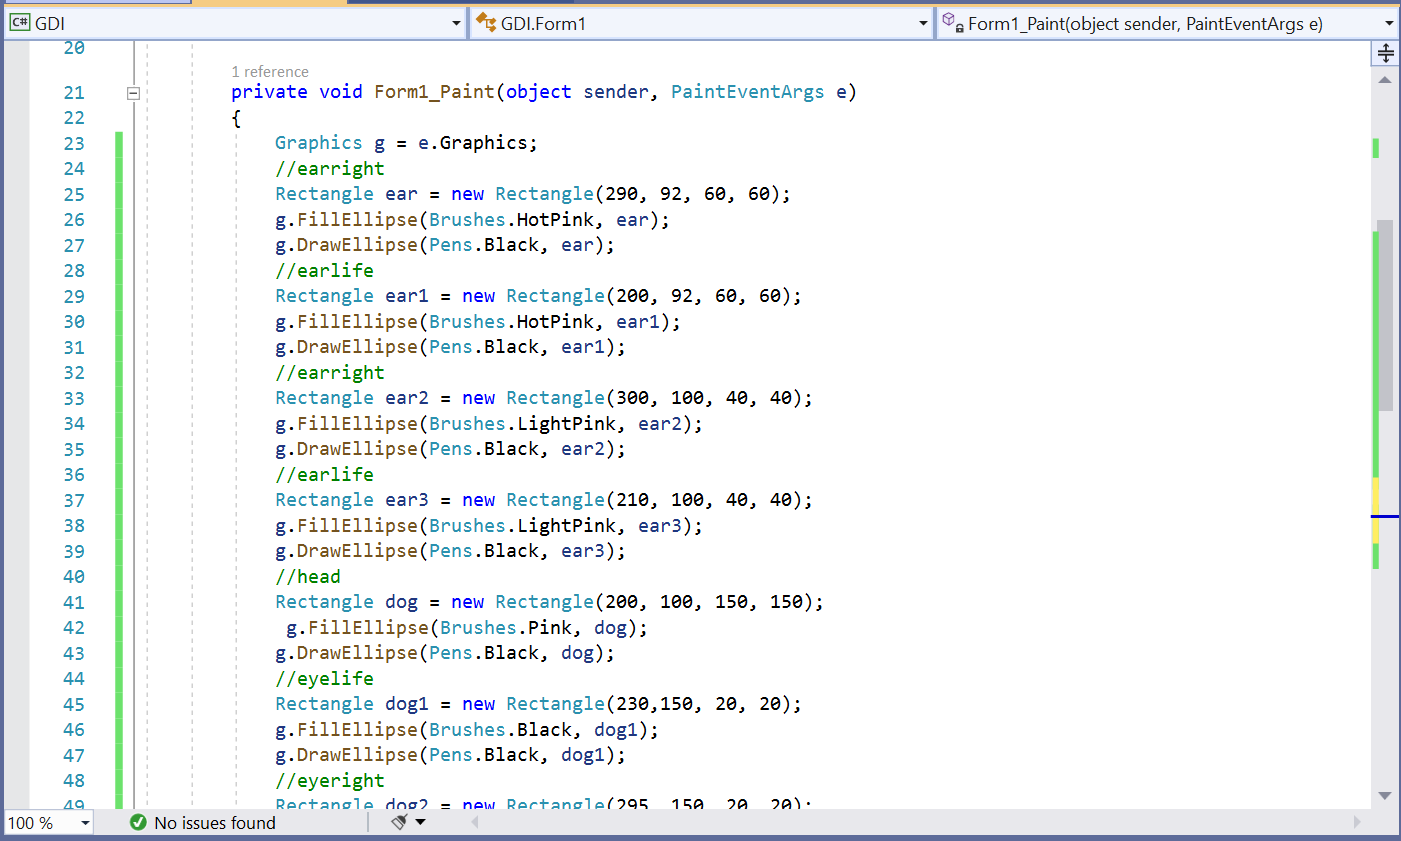
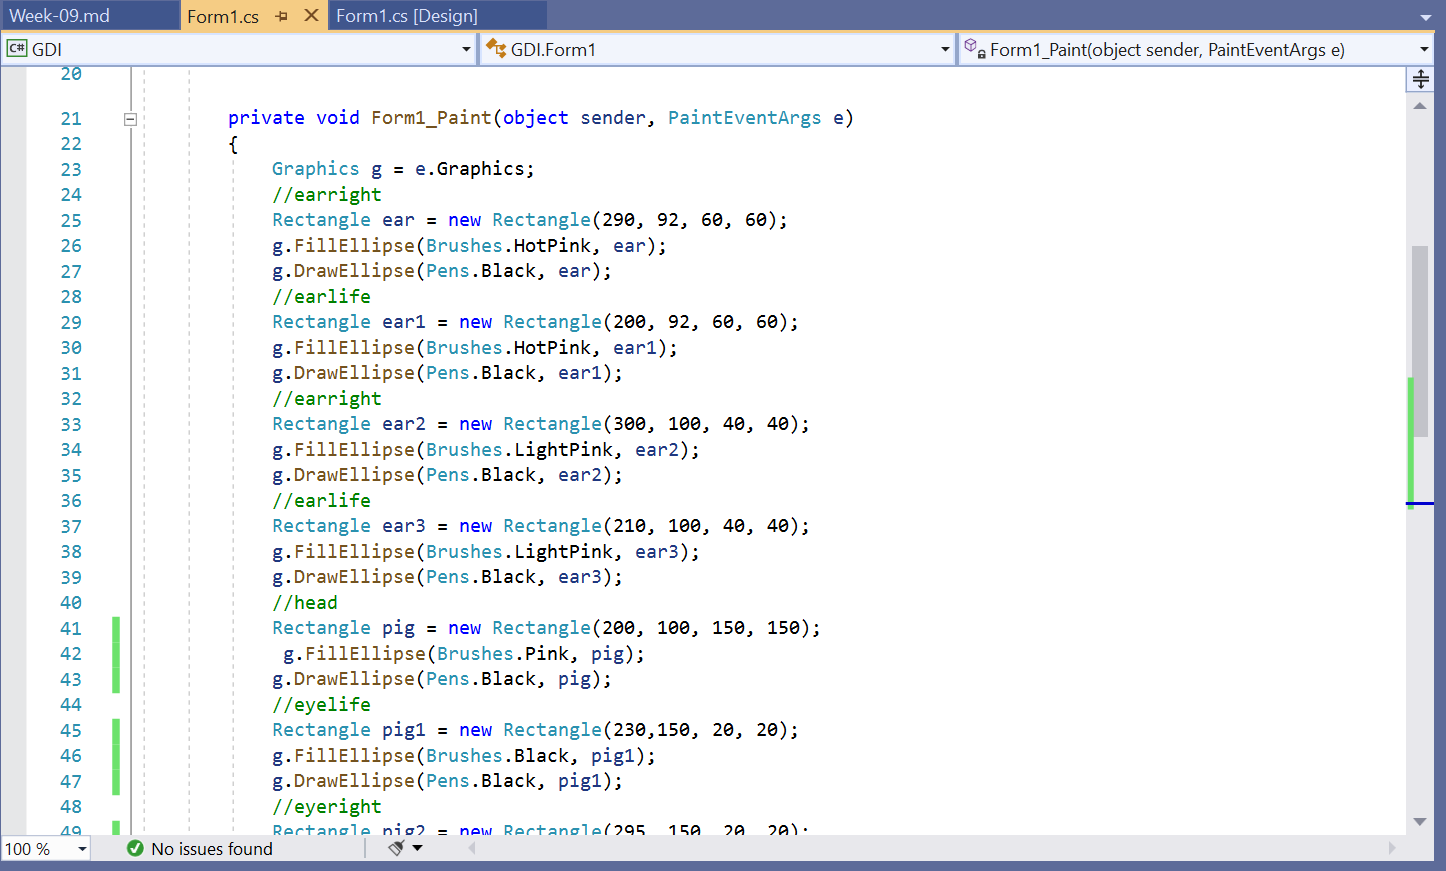
COMMIT

Changed region(s): [[0.0, 0.0, 1.0, 1.0], [0.0921, 0.1237, 0.1228, 0.1546]]

diff --git a/61030035/GDI/GDI/Form1.cs b/61030035/GDI/GDI/Form1.cs
@@ -38,25 +38,25 @@ namespace GDI
             g.FillEllipse(Brushes.LightPink, ear3);
             g.DrawEllipse(Pens.Black, ear3);
             //head
-            Rectangle dog = new Rectangle(200, 100, 150, 150);
-             g.FillEllipse(Brushes.Pink, dog);
-            g.DrawEllipse(Pens.Black, dog);
+            Rectangle pig = new Rectangle(200, 100, 150, 150);
+             g.FillEllipse(Brushes.Pink, pig);
+            g.DrawEllipse(Pens.Black, pig);
             //eyelife
-            Rectangle dog1 = new Rectangle(230,150, 20, 20);
-            g.FillEllipse(Brushes.Black, dog1);
-            g.DrawEllipse(Pens.Black, dog1);
+            Rectangle pig1 = new Rectangle(230,150, 20, 20);
+            g.FillEllipse(Brushes.Black, pig1);
+            g.DrawEllipse(Pens.Black, pig1);
             //eyeright
-            Rectangle dog2 = new Rectangle(295, 150, 20, 20);
-            g.FillEllipse(Brushes.Black, dog2);
-            g.DrawEllipse(Pens.Black, dog2);
+            Rectangle pig2 = new Rectangle(295, 150, 20, 20);
+            g.FillEllipse(Brushes.Black, pig2);
+            g.DrawEllipse(Pens.Black, pig2);
             //nose
-            Rectangle dog3 = new Rectangle(245, 180, 60, 40);
-            g.FillEllipse(Brushes.HotPink, dog3);
-            g.DrawEllipse(Pens.Black, dog3);
+            Rectangle pig3 = new Rectangle(245, 180, 60, 40);
+            g.FillEllipse(Brushes.HotPink, pig3);
+            g.DrawEllipse(Pens.Black, pig3);
             //nose
-            Rectangle dog4 = new Rectangle(255, 190, 15, 20);
-            g.FillEllipse(Brushes.LightPink, dog4);
-            g.DrawEllipse(Pens.Black, dog4);
+            Rectangle pig4 = new Rectangle(255, 190, 15, 20);
+            g.FillEllipse(Brushes.LightPink, pig4);
+            g.DrawEllipse(Pens.Black, pig4);
             //nose1
             Rectangle nose = new Rectangle(280, 190, 15, 20);
             g.FillEllipse(Brushes.LightPink, nose);

diff --git a/61030035/Week-09.md b/61030035/Week-09.md
@@ -431,5 +431,6 @@ __รูปที่ 31__ การเขียนข้อความลงใ
 
 ![](image/00.PNG)
 
+
 ![](image/00-1.PNG)
 ![](image/00-2.PNG)
